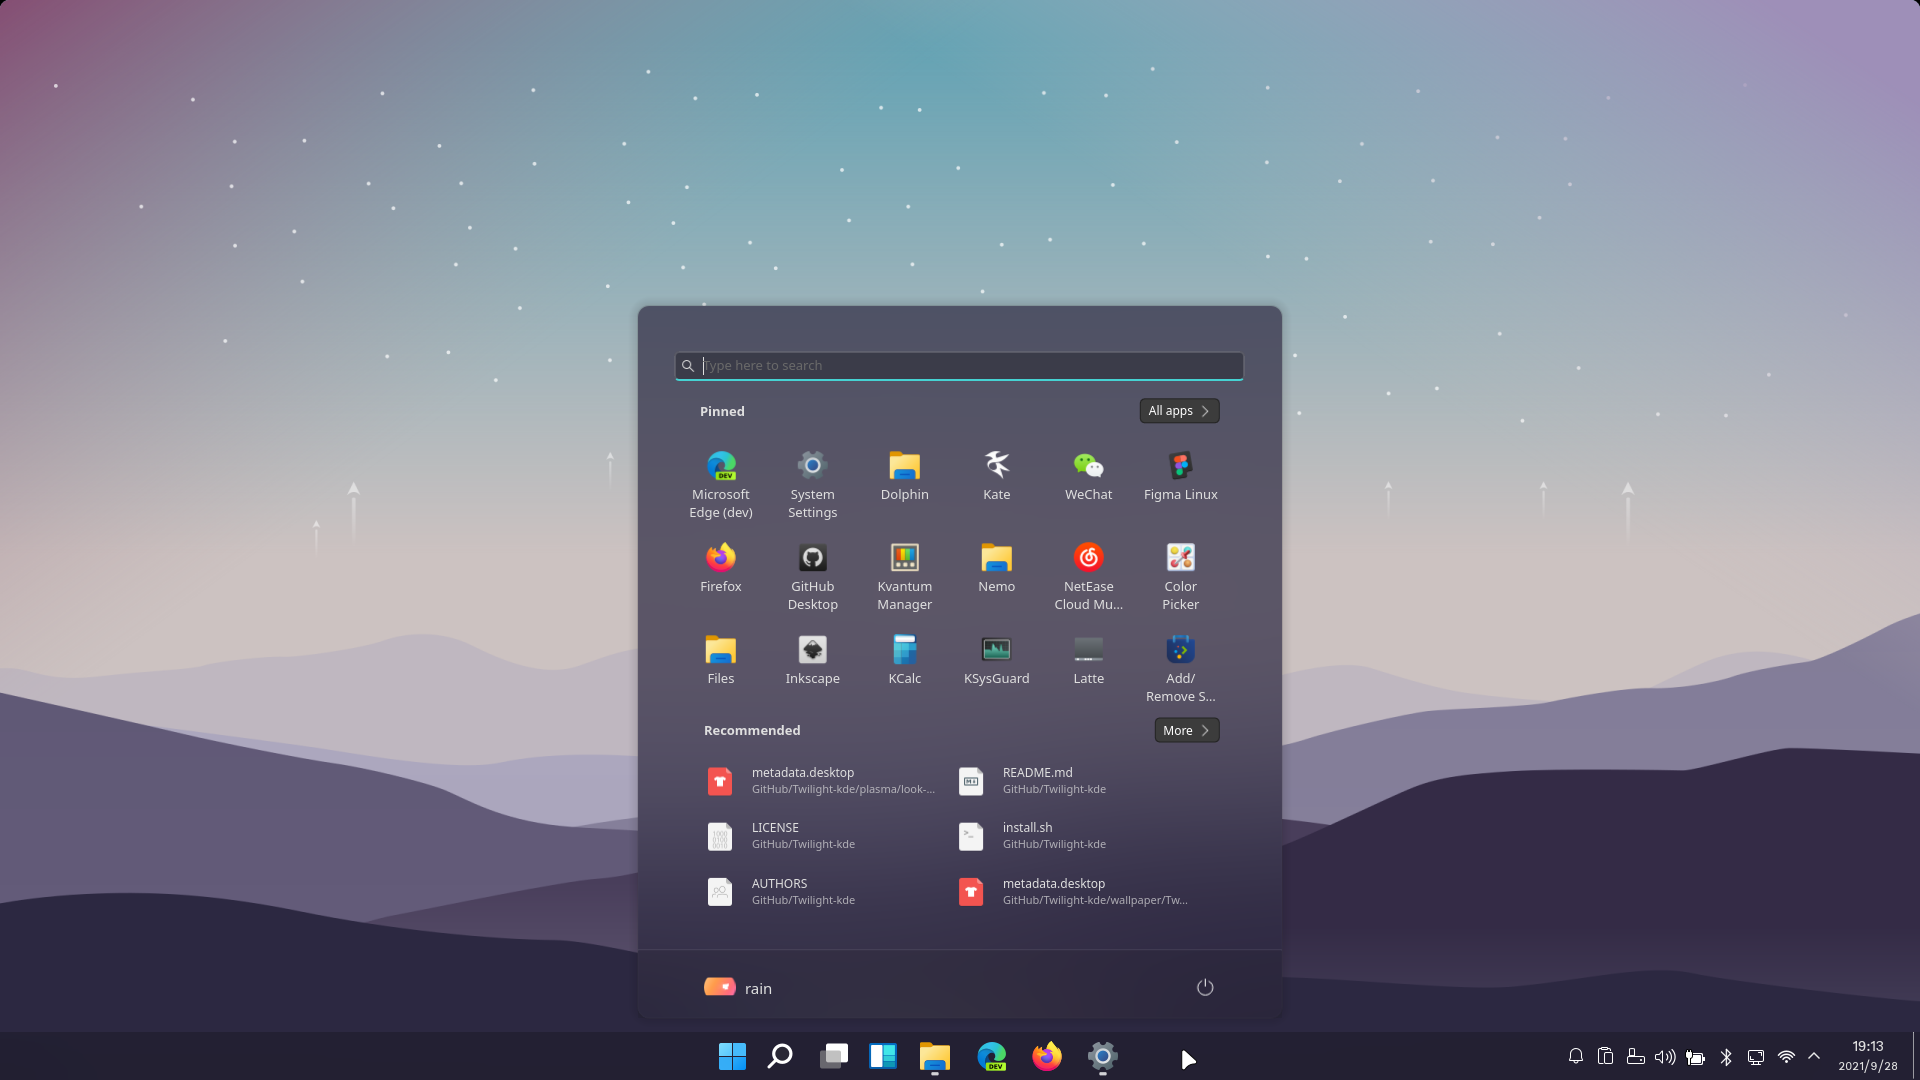
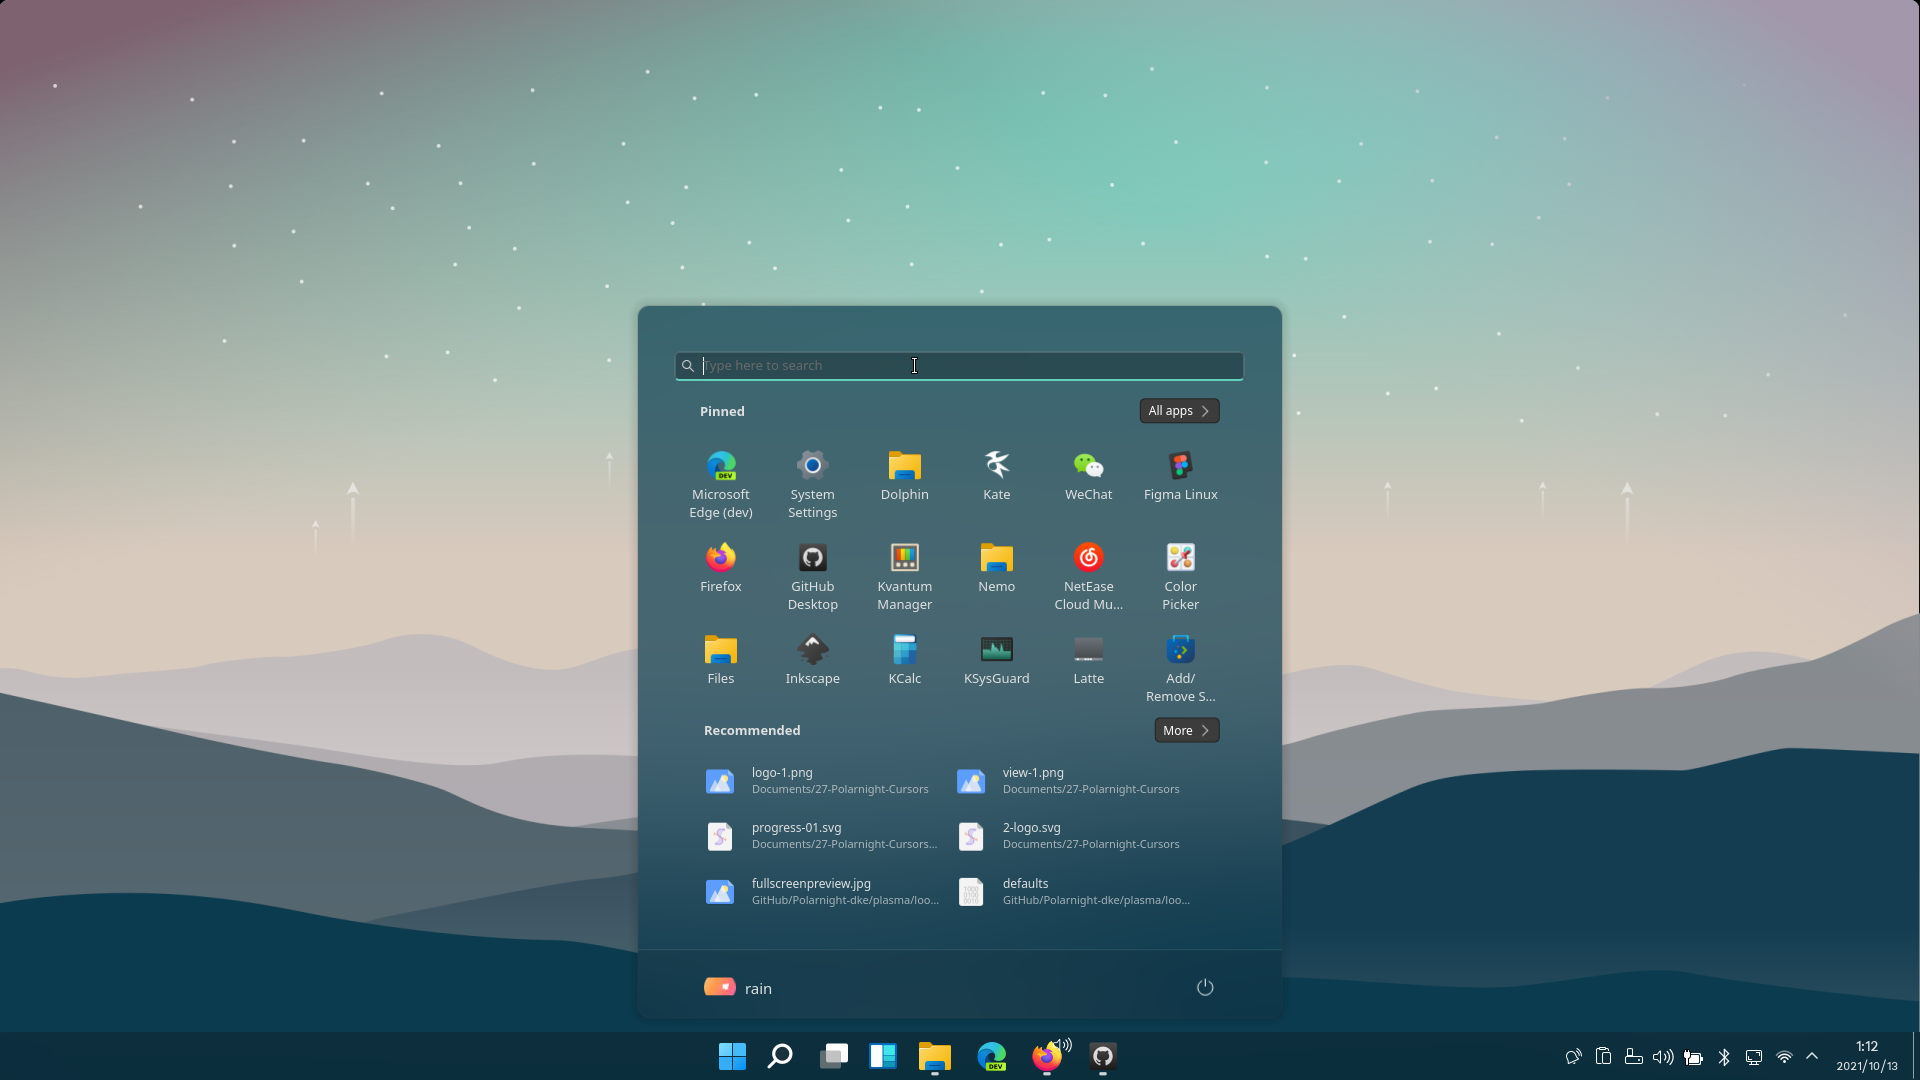
upload

diff --git a/plasma/look-and-feel/com.github.yeyushengfan258.Polarnight-dark/contents/splash/Splash.qml b/plasma/look-and-feel/com.github.yeyushengfan258.Polarnight-dark/contents/splash/Splash.qml
@@ -42,7 +42,7 @@ Image {
         }
         Rectangle {
             radius: 3
-            color: "#2c2841"
+            color: "#0b3b4f"
             anchors {
                 bottom: parent.bottom
                 bottomMargin: 50

diff --git a/README.md b/README.md
@@ -1,6 +1,6 @@
-## Twilight KDE Theme
+## Polarnight KDE Theme
 
-Twilight kde is a light clean theme for KDE Plasma desktop.
+Polarnight kde is a light clean theme for KDE Plasma desktop.
 
 In this repository you'll find:
 
